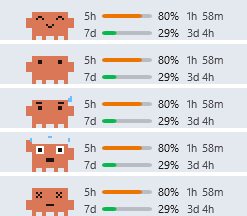
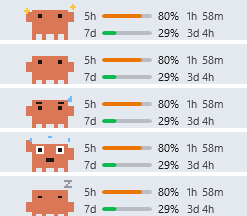
キャラクター追加

diff --git a/src/ClaudeUsageTracker.App/Views/MascotView.cs b/src/ClaudeUsageTracker.App/Views/MascotView.cs
@@ -8,8 +8,8 @@ namespace ClaudeUsageTracker.App.Views;
 
 /// <summary>
 /// The pixel-art creature that sits beside the taskbar bars and acts out how much usage is left:
-/// hopping after a reset, blinking while there's room, sweating as it runs short, flailing near
-/// the limit, slumped once it's used up.
+/// hopping among sparkles after a reset, blinking while there's room, sweating as it runs short, flailing near
+/// the limit, asleep once it's used up.
 /// <para>
 /// Drawn in code, block by block, on a grid of <see cref="Columns"/> x <see cref="Rows"/> blocks
 /// of <see cref="Block"/> units each. The body starts <see cref="BodyTop"/> rows down, leaving
@@ -41,6 +41,8 @@ public sealed class MascotView : FrameworkElement
     private static readonly Brush Body = Frozen(Color.FromRgb(217, 119, 87));
     private static readonly Brush Dark = Frozen(Color.FromRgb(30, 20, 18));
     private static readonly Brush Sweat = Frozen(Color.FromRgb(110, 190, 255));
+    private static readonly Brush Sparkle = Frozen(Color.FromRgb(255, 200, 60));
+    private static readonly Brush Sleep = Frozen(Color.FromRgb(150, 150, 160));
 
     public static readonly DependencyProperty MoodProperty = DependencyProperty.Register(
         nameof(Mood), typeof(MascotMood), typeof(MascotView),
@@ -148,6 +150,10 @@ public sealed class MascotView : FrameworkElement
         void Draw(Brush brush, int x, int y, int width, int height) =>
             drawingContext.DrawRectangle(brush, null, new Rect((x + dx) * Block, (y + dy) * Block, width * Block, height * Block));
 
+        // For what's around it rather than part of it, which stays put while it hops.
+        void DrawStill(Brush brush, int x, int y, int width, int height) =>
+            drawingContext.DrawRectangle(brush, null, new Rect((x + 1) * Block, y * Block, width * Block, height * Block));
+
         Draw(Body, 3, BodyTop, 18, 12);
         foreach (var x in (int[])[3, 8, 14, 19])
             Draw(Body, x, BodyTop + 12, 2, 4 - Math.Max(dy, 0)); // legs: a pair under each side; they give when it sags
@@ -167,16 +173,21 @@ public sealed class MascotView : FrameworkElement
         var eyes = BodyTop + 2;
         switch (mood)
         {
-            case MascotMood.Happy: // eyes closed in a smile, and a smile
-                foreach (var x in (int[])[5, 15])
+            case MascotMood.Happy: // its own plain face — the hop says it — with sparkles twinkling either side
+                Draw(Dark, 6, eyes, 2, 2);
+                Draw(Dark, 16, eyes, 2, 2);
+                if (f % 4 < 2)
                 {
-                    Draw(Dark, x, eyes + 1, 1, 1);
-                    Draw(Dark, x + 1, eyes, 2, 1);
-                    Draw(Dark, x + 3, eyes + 1, 1, 1);
+                    DrawStill(Sparkle, 0, 2, 1, 3);
+                    DrawStill(Sparkle, -1, 3, 3, 1);
+                    DrawStill(Sparkle, 23, 0, 1, 3);
+                    DrawStill(Sparkle, 22, 1, 3, 1);
                 }
-                Draw(Dark, 10, eyes + 4, 1, 1);
-                Draw(Dark, 11, eyes + 5, 2, 1);
-                Draw(Dark, 13, eyes + 4, 1, 1);
+                else
+                {
+                    DrawStill(Sparkle, 0, 0, 1, 1);
+                    DrawStill(Sparkle, 22, 2, 1, 1);
+                }
                 break;
 
             case MascotMood.Worried: // eyes darting under knitted brows, a bead of sweat running down
@@ -213,16 +224,23 @@ public sealed class MascotView : FrameworkElement
                 }
                 break;
 
-            case MascotMood.Tired: // crosses for eyes, a flat mouth
-                foreach (var x in (int[])[5, 15])
+            case MascotMood.Tired: // asleep: eyes shut, and a z rising off it — small, then large, then gone
+                Draw(Dark, 6, eyes + 1, 2, 1);
+                Draw(Dark, 16, eyes + 1, 2, 1);
+                switch (f / 4)
                 {
-                    for (var i = 0; i < 3; i++)
-                    {
-                        Draw(Dark, x + i, eyes + i, 1, 1);
-                        Draw(Dark, x + 2 - i, eyes + i, 1, 1);
-                    }
+                    case 0:
+                        DrawStill(Sleep, 16, 1, 3, 1);
+                        DrawStill(Sleep, 17, 2, 1, 1);
+                        DrawStill(Sleep, 16, 3, 3, 1);
+                        break;
+                    case 1 or 2:
+                        DrawStill(Sleep, 19, 0, 4, 1);
+                        DrawStill(Sleep, 21, 1, 1, 1);
+                        DrawStill(Sleep, 20, 2, 1, 1);
+                        DrawStill(Sleep, 19, 3, 4, 1);
+                        break;
                 }
-                Draw(Dark, 10, eyes + 6, 4, 1);
                 break;
 
             default: // calm: square eyes, shut for the one frame of a blink, glancing left then right

diff --git a/README.md b/README.md
@@ -102,11 +102,11 @@ dotnet publish src/ClaudeUsageTracker.App -c Release -r win-x64 --self-contained
 
 | 使用率 (セッションと週間の高いほう) | 表情 |
 |---|---|
-| セッションが 10% 未満 (リセット直後) | 笑って小さく跳ねる |
+| セッションが 10% 未満 (リセット直後) | きらきらの中で小さく跳ねる |
 | 70% 未満 | 普通の顔で、ときどき瞬き |
 | 70% 以上 | 目が泳ぎ、汗が流れる |
 | 90% 以上 | 慌てて腕をばたつかせる |
-| 100% | 目がバツになり、ぐったりする |
+| 100% | 目を閉じて眠り、z が浮かぶ |
 
 どのくらい動くかは、設定の **キャラクターの動き** で選べます。
 
